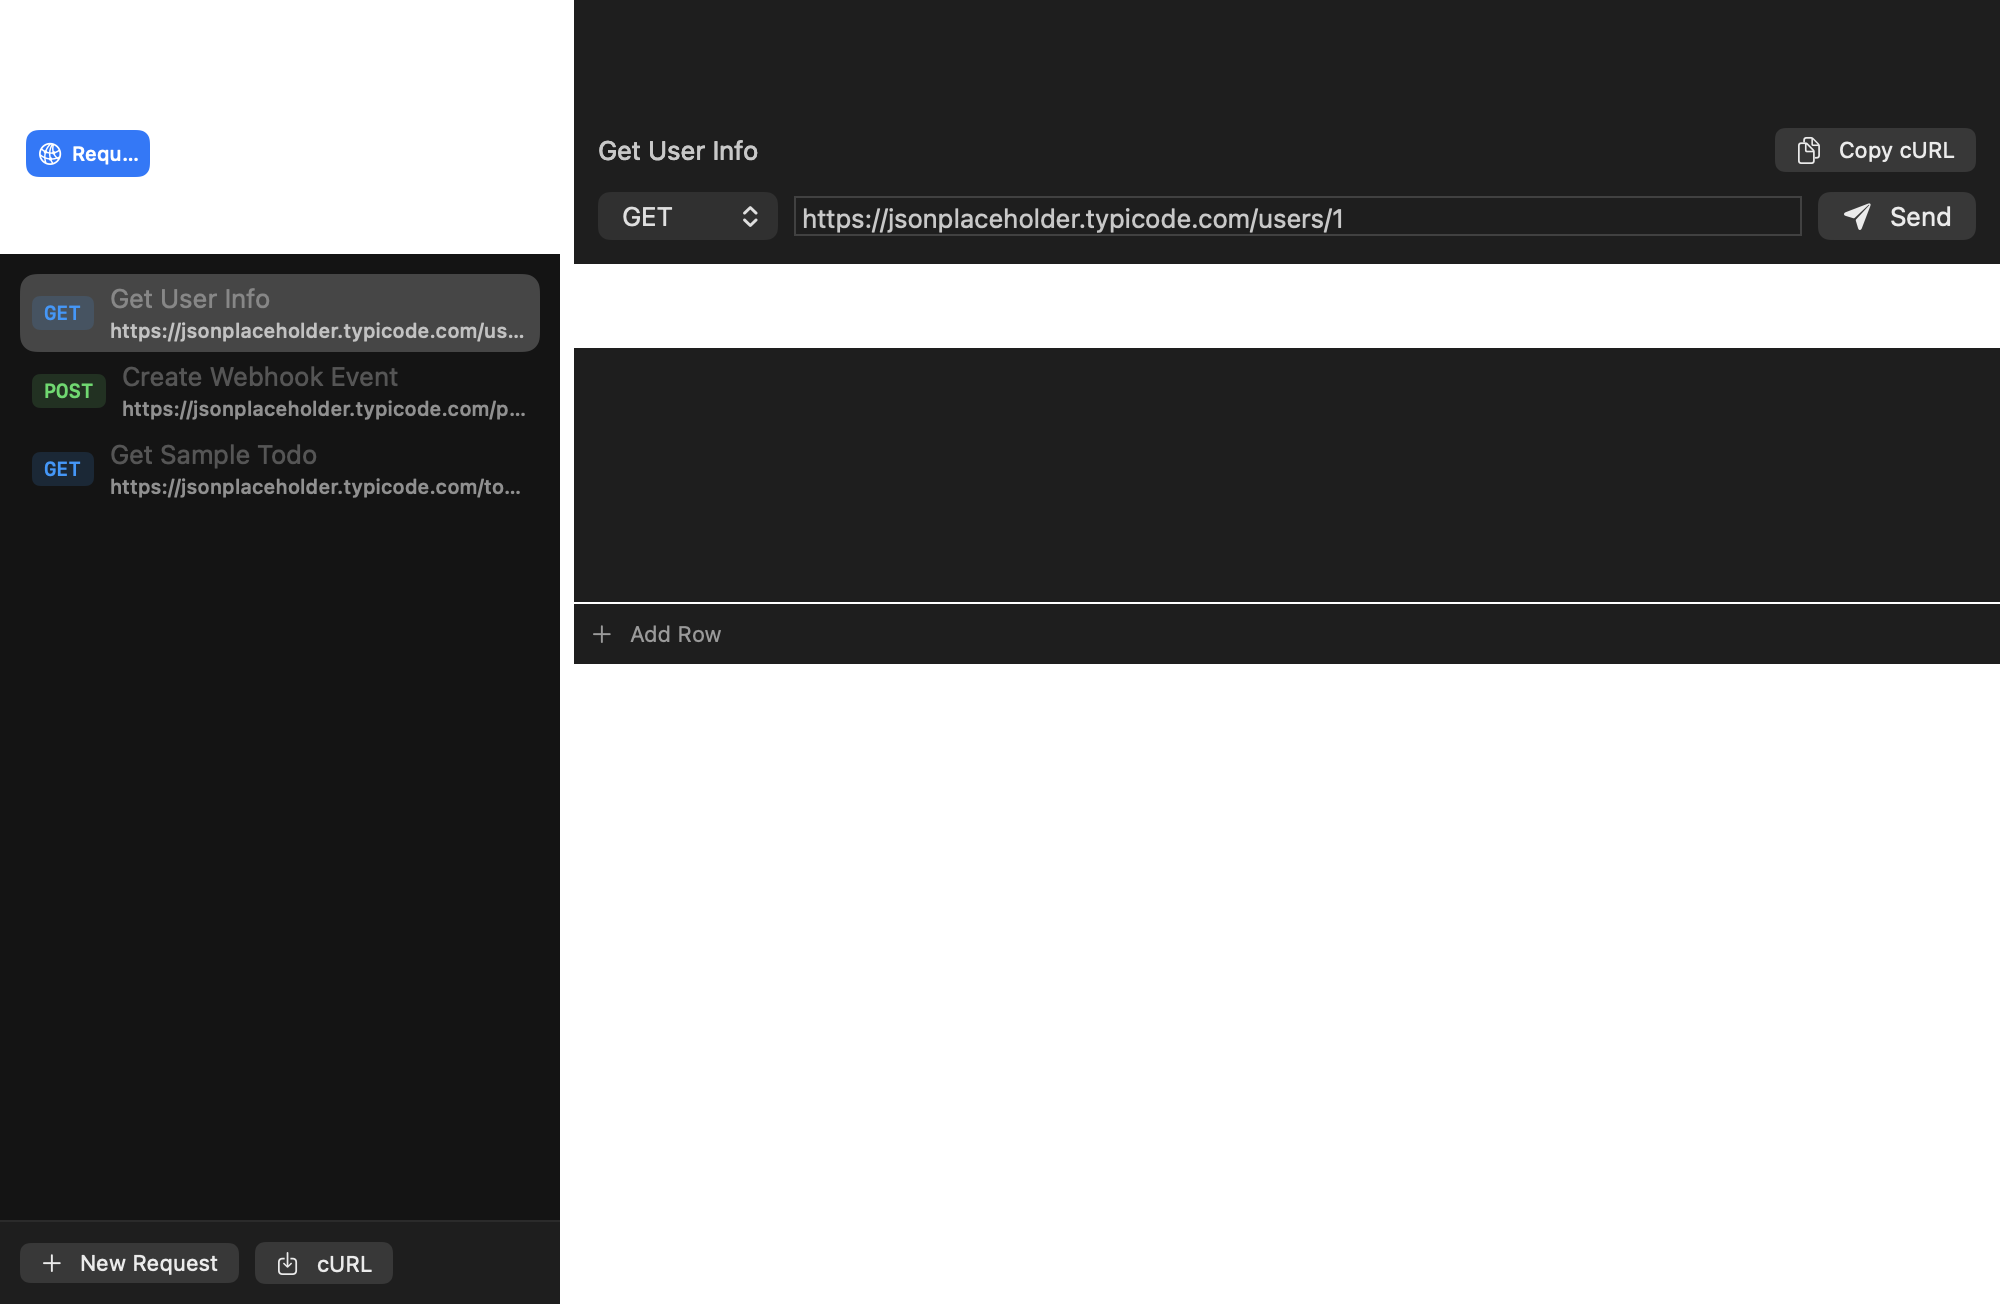
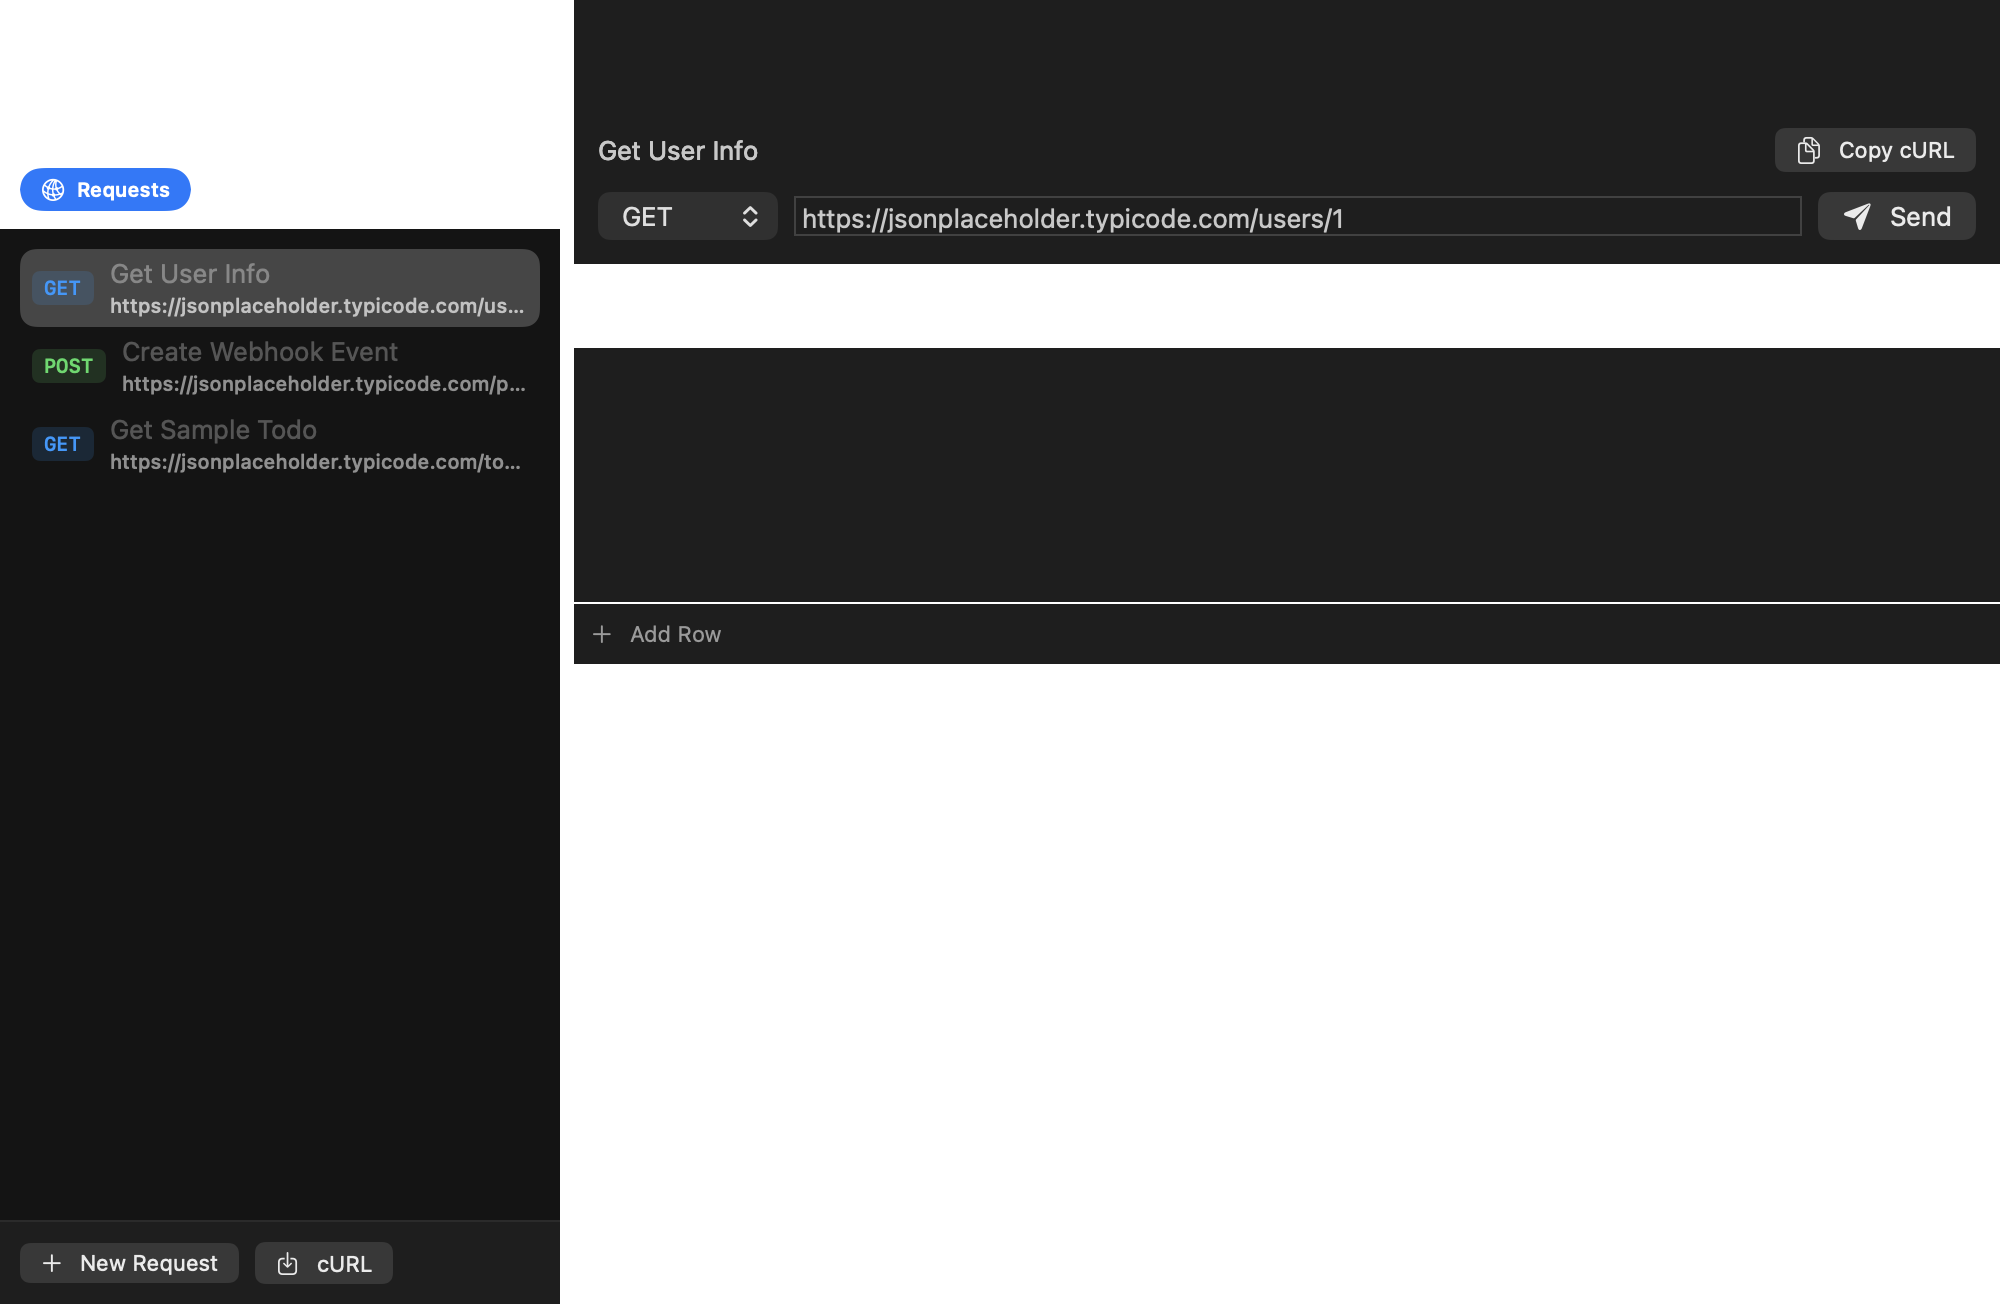
Replace tab bar with Stash-mac style horizontal pill filter bar underneath search field

Changed region(s): [[0.0, 0.092, 0.279, 0.3988]]

diff --git a/Sources/Post/Views/SidebarView.swift b/Sources/Post/Views/SidebarView.swift
@@ -7,9 +7,6 @@ struct SidebarView: View {
 
     var body: some View {
         VStack(spacing: 0) {
-            // Tab Picker Header
-            responsiveTabPicker
-
             // Search Bar
             FilterField(
                 placeholder: store.activeTab == .history ? "Filter (method:POST status:200)..." : "Search requests...",
@@ -17,7 +14,11 @@ struct SidebarView: View {
                 style: .plain
             )
             .padding(.horizontal, 10)
-            .padding(.bottom, 8)
+            .padding(.top, 10)
+            .padding(.bottom, 6)
+
+            // Horizontal Pill Filter Bar
+            pillTabBar
 
             Divider()
 
@@ -206,43 +207,35 @@ struct SidebarView: View {
         }
     }
 
-    private var responsiveTabPicker: some View {
-        GeometryReader { proxy in
-            let isCompact = proxy.size.width < 290
-            let isUltraCompact = proxy.size.width < 230
-            HStack(spacing: 2) {
+    private var pillTabBar: some View {
+        ScrollView(.horizontal, showsIndicators: false) {
+            HStack(spacing: 6) {
                 ForEach(PostStore.SidebarTab.allCases) { tab in
                     let isSelected = store.activeTab == tab
                     Button(action: {
-                        withAnimation(.easeInOut(duration: 0.12)) {
+                        withAnimation(.easeInOut(duration: 0.15)) {
                             store.activeTab = tab
                         }
                     }) {
-                        HStack(spacing: 4) {
+                        HStack(spacing: 5) {
                             Image(systemName: tab.iconName)
                                 .font(.system(size: 11, weight: .medium))
-                            if !isUltraCompact {
-                                Text(isCompact ? tab.shortName : tab.rawValue)
-                                    .font(.caption2.weight(.medium))
-                                    .lineLimit(1)
-                            }
+                            Text(tab.rawValue)
+                                .font(.caption)
+                                .fontWeight(isSelected ? .semibold : .regular)
                         }
-                        .padding(.vertical, 5)
-                        .padding(.horizontal, isUltraCompact ? 4 : (isCompact ? 4 : 6))
-                        .frame(maxWidth: .infinity)
-                        .background(isSelected ? Color.accentColor : Color.clear, in: RoundedRectangle(cornerRadius: 6))
+                        .padding(.vertical, 4)
+                        .padding(.horizontal, 10)
+                        .background(isSelected ? Color.accentColor : Color.secondary.opacity(0.12), in: Capsule())
                         .foregroundStyle(isSelected ? Color.white : Color.primary)
                     }
                     .focusable(false)
                     .buttonStyle(.plain)
-                    .help(tab.rawValue)
                 }
             }
-            .padding(3)
-            .background(Color.secondary.opacity(0.12), in: RoundedRectangle(cornerRadius: 8))
+            .padding(.horizontal, 10)
+            .padding(.bottom, 8)
         }
-        .frame(height: 30)
-        .padding(10)
     }
 
     private var curlImportSheet: some View {
